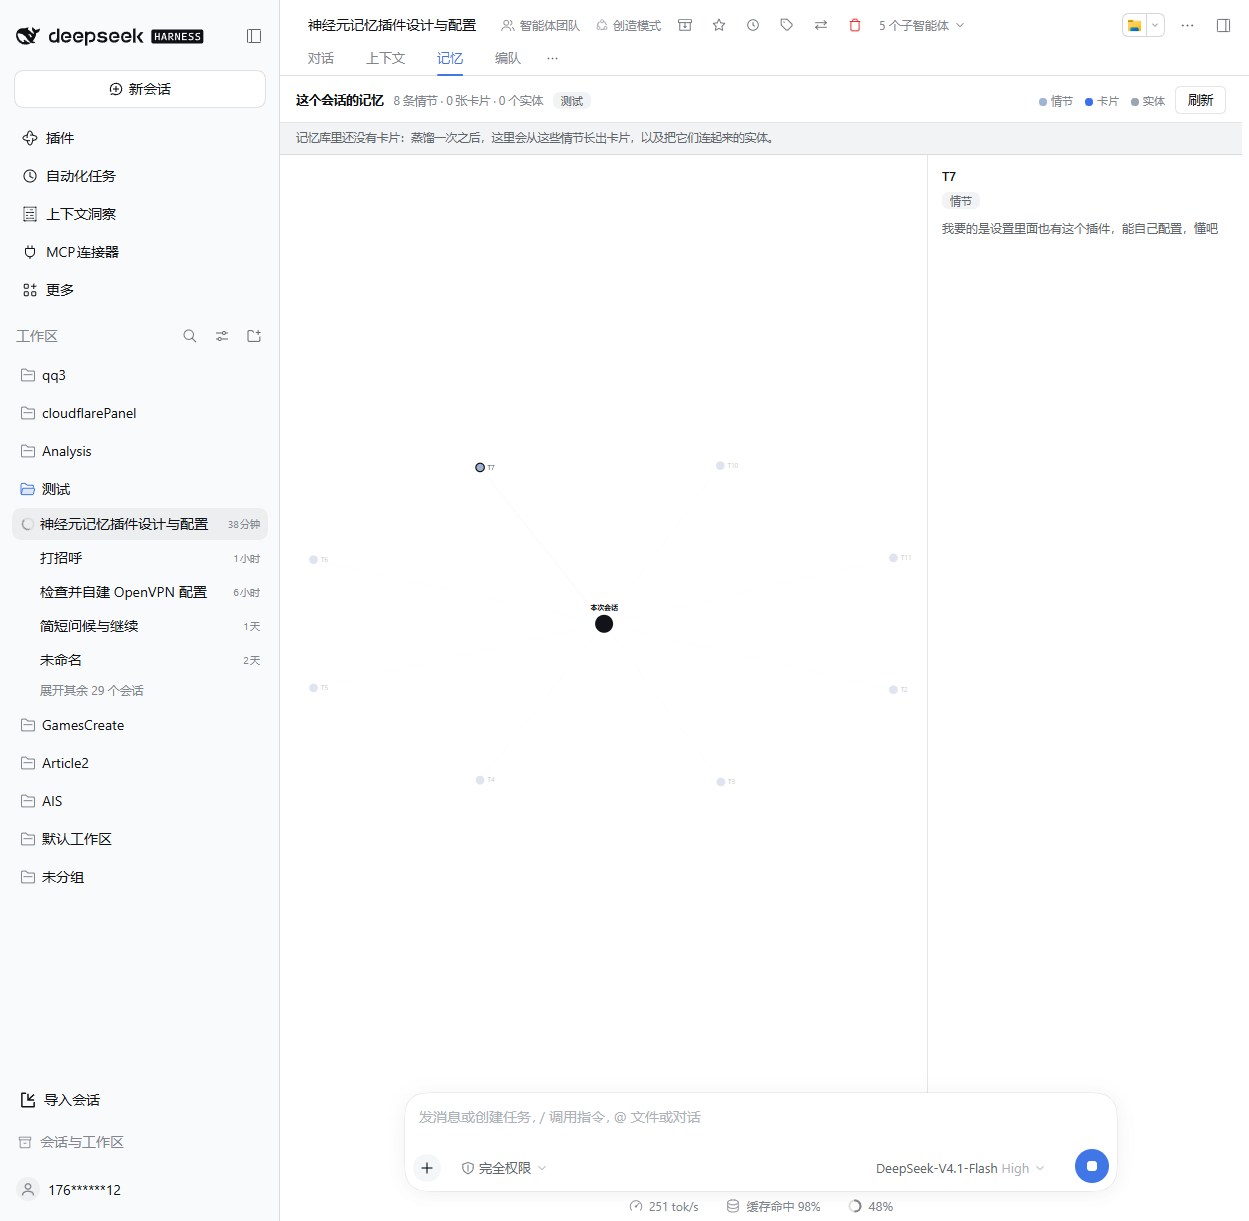
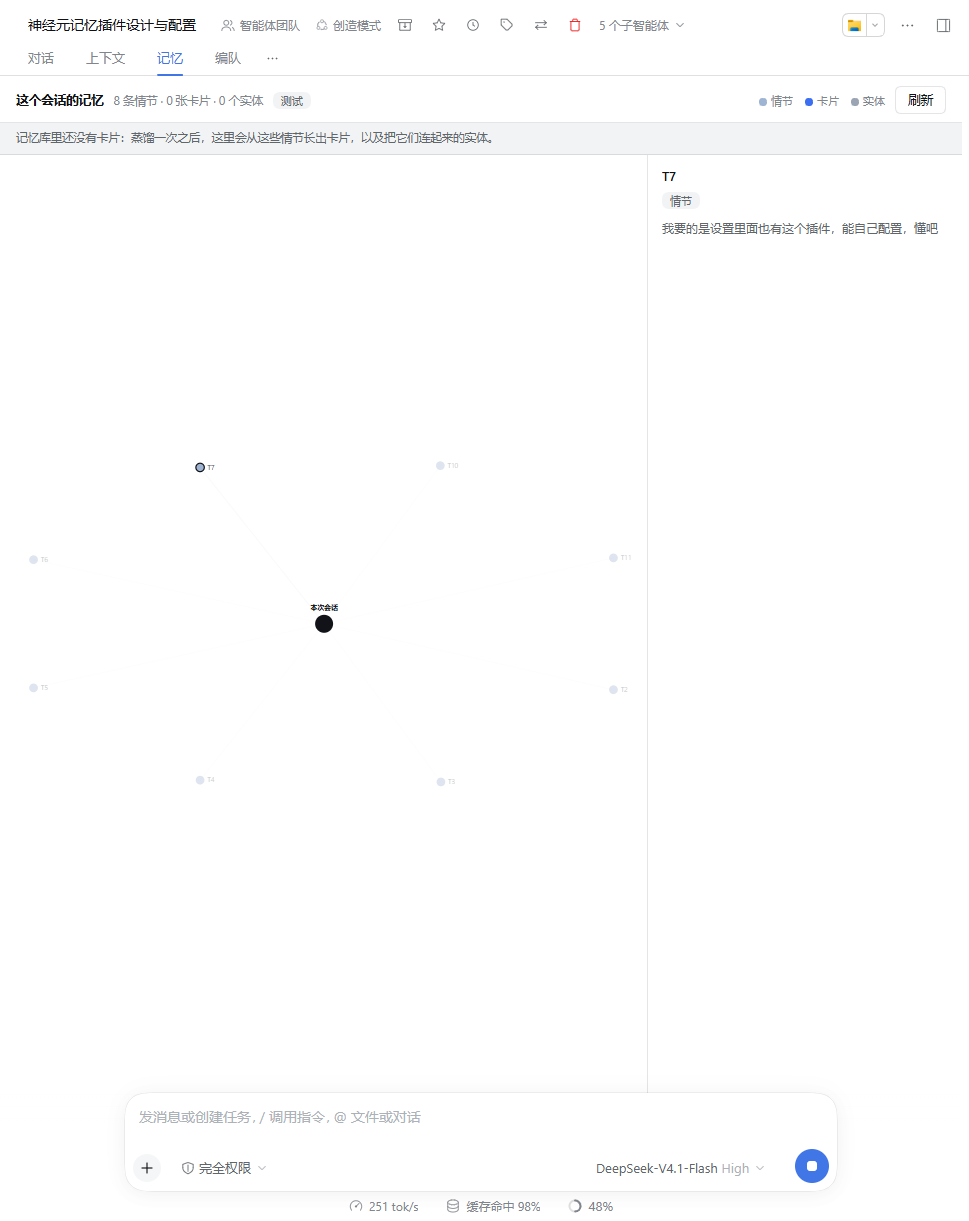
chore: 发布到 GitHub 前的整理
- 包名 @local/dsh-memory-graph → dsh-memory-graph。四处必须一致，一起改：
  package.json、client.js 的 PACKAGE_NAME（bundle 注册 id）、cordis.patch.yml、
  写进 vault.json 的 app 标记。
- package.json 补 repository / homepage / bugs / author。
- README 中英双语：安装改成 git clone → npm install → install_bundle，
  卸载目标名跟着改；docs/ 的截图裁掉左侧边栏（工作区名、会话标题、账号）。
- .github/workflows/test.yml：windows-latest，Node 20 与 22，跑 npm test。
- projectOf 不再用 path.basename：它只认当前平台的斜杠，而会话头里的 cwd 可能
  是另一个系统写下的；两个斜杠都切。

diff --git a/src/capture.js b/src/capture.js
@@ -5,7 +5,6 @@
  * loses anything" guarantee holds even while the extractor is unconfigured,
  * offline, or out of quota. Distillation happens later and separately.
  */
-import path from 'node:path'
 import { nowIso } from './vault.js'
 
 const FLUSH_AFTER_MS = 90_000
@@ -40,7 +39,10 @@ function eventText(event) {
 function projectOf(session, fallback) {
   const cwd = session?.header?.cwd ?? session?.meta?.cwd ?? session?.cwd
   if (typeof cwd === 'string' && cwd.trim() !== '') {
-    const base = path.basename(cwd.replace(/[\\/]+$/, ''))
+    // Both separators, whatever platform this is running on: the path comes from
+    // the session header, which may well have been written on the other OS.
+    const parts = cwd.replace(/[\\/]+$/, '').split(/[\\/]/)
+    const base = parts[parts.length - 1] ?? ''
     if (base !== '') return base
   }
   return fallback

diff --git a/src/vault.js b/src/vault.js
@@ -248,7 +248,7 @@ export function createVault(cfg, redactor) {
       if (!(await exists(P.vaultJson))) {
         await writeAtomic(
           P.vaultJson,
-          `${JSON.stringify({ schema: 'dsh-memory-graph/1', created: nowIso(), app: '@local/dsh-memory-graph' }, null, 2)}\n`,
+          `${JSON.stringify({ schema: 'dsh-memory-graph/1', created: nowIso(), app: 'dsh-memory-graph' }, null, 2)}\n`,
         )
       }
       if (!(await exists(P.projects))) {

diff --git a/client.js b/client.js
@@ -21,7 +21,7 @@
  * so `test/schema.mjs` can hold the page and the schema to each other.
  */
 
-const PACKAGE_NAME = '@local/dsh-memory-graph'
+const PACKAGE_NAME = 'dsh-memory-graph'
 const HOST_ENTRY_ID = 'memory-graph'
 const STYLE_ID = 'dsh-memory-graph-settings-css'
 /** The Conversation view cell this plugin adds, and the host routes it reads. */

diff --git a/README.md b/README.md
@@ -58,17 +58,25 @@ SQLite 需要处理锁和二进制合并，纯文本可以直接读、直接 gre
 
 ## 安装
 
-在 Harness 里让模型执行，或者自己在插件管理里填绝对路径：
+```
+git clone https://github.com/ilaomianyang/dsh-memory-graph
+cd dsh-memory-graph
+npm install                 # 只有一个依赖，Harness 自带的 schema 库
+```
+
+然后在 Harness 里让模型执行，或者自己在插件管理里填那个目录的绝对路径：
 
 ```
-plugin_manager action=install_bundle target="<本仓库绝对路径>"
+plugin_manager action=install_bundle target="<clone 下来的绝对路径>"
 ```
 
-`install_bundle` 用 `link:` 方式装本地目录，**不会**替你装依赖，所以先在这个仓库里跑一次 `npm install`（只有一个包）。不装也能用，只是设置里看不到那一页。
+`install_bundle` 用 `link:` 方式装本地目录，**不会**替你装依赖，所以上面那步 `npm install` 别跳过。不装也能用，只是设置里看不到那一页。
+
+想跟着改：`git pull` 之后重载插件即可（`plugin_manager action=set_plugin target="include:memory-graph" enabled=false`，再 `enabled=true`）。
 
 **装完要重启一次 Harness**（关掉窗口重开）。原因不是偷懒：Web 侧的插件清单是启动时扫一遍运行中的 loader 条目、读各自 `package.json` 的 `dsh.client` 字段定下的，这份扫描结果在进程里有缓存，之后不会再读第二遍。所以新装、或者改了 `client.js` / `package.json`，都得让进程重来一次；装完不重启，侧栏里不会有「记忆图谱」，而你手上不会有任何报错提示。
 
-重启后打开 **设置 → 记忆图谱**（在「模型」和「内置插件」之间）。卸载：`plugin_manager action=remove_bundle target="@local/dsh-memory-graph"`。**记忆库不会被删**，它在 `~/dsh-memory`，独立于插件。
+重启后打开 **设置 → 记忆图谱**（在「模型」和「内置插件」之间）。卸载：`plugin_manager action=remove_bundle target="dsh-memory-graph"`。**记忆库不会被删**，它在 `~/dsh-memory`，独立于插件。
 
 ## 你的记忆库长什么样
 

diff --git a/README.en.md b/README.en.md
@@ -61,10 +61,20 @@ backed up directly.
 ## Install
 
 ```
-plugin_manager action=install_bundle target="<absolute path to this repo>"
+git clone https://github.com/ilaomianyang/dsh-memory-graph
+cd dsh-memory-graph
+npm install                 # one dependency: the harness's own schema library
 ```
 
-`install_bundle` links a local directory with `link:`, which does **not** install the package's dependencies, so run `npm install` once in this repo (it is a single package). Without it the plugin still runs — there is simply no Memory Graph page in Settings.
+Then, in Harness, let the model run this, or point the plugin manager at that directory:
+
+```
+plugin_manager action=install_bundle target="<absolute path of the clone>"
+```
+
+`install_bundle` links a local directory with `link:`, which does **not** install the package's dependencies, so do not skip `npm install` above. Without it the plugin still runs — there is simply no Memory Graph page in Settings.
+
+To follow along: `git pull`, then reload the plugin (`plugin_manager action=set_plugin target="include:memory-graph" enabled=false`, then `enabled=true`).
 
 The vault defaults to `~/dsh-memory` and is created on activation.
 
@@ -72,7 +82,7 @@ The vault defaults to `~/dsh-memory` and is created on activation.
 
 After the restart it is **Settings → Memory Graph**, between Models and Plugins.
 
-Uninstall with `plugin_manager action=remove_bundle target="@local/dsh-memory-graph"`. The vault is not touched — it lives in `~/dsh-memory`, independent of the plugin.
+Uninstall with `plugin_manager action=remove_bundle target="dsh-memory-graph"`. The vault is not touched — it lives in `~/dsh-memory`, independent of the plugin.
 
 ## What you get on disk
 

diff --git a/CHANGELOG.md b/CHANGELOG.md
@@ -25,6 +25,12 @@
 
 - 采集会把宿主的 runtime 快照当成你说的话记下来——实测库里就躺着一条 1501 字的图像工具说明，被 1500 字上限截断后当成一轮对话。原因是"这是不是人说的"只看 `source.kind`，而这条快照带的正是 `user`。现在来源只能**增加**跳过，不能否决文本规则，两条都过；判断之前先剥掉 `<system-reminder>…</system-reminder>` 这种有边界的块，所以一条真消息里带了提醒时，剥完留下你的原话，而不是整条丢掉。
 - README 记下两个已知限制：采集不回溯（老会话没有情节，因为它只从插件在场那一刻开始），以及子智能体的开场提示词也会被当成一条情节（还没过滤）。
+**发布**
+
+- 包名从占位的 `@local/dsh-memory-graph` 改成 `dsh-memory-graph`（`package.json` / `client.js` 的 bundle id / `cordis.patch.yml` / 库里的 `vault.json` 标记四处一起改，它们必须一致）。补上 `repository` / `homepage` / `bugs` / `author`。
+- README 补上 `git clone` 安装路径；截图裁掉左侧边栏（工作区名、会话标题、账号）。
+- `.github/workflows/test.yml`：push / PR 时在 windows-latest 上跑 Node 20 与 22 的 `npm test`（221 项 + 离线评测，不联网、不碰记忆库）。
+- `projectOf` 不再用 `path.basename`：它只认当前平台的斜杠，而会话头里的 cwd 可能是另一个系统写下的。两个斜杠都切。
 **Note**
 
 - 默认仍然是**关**。这不是保守，是定价：一次蒸馏是一次真模型调用，什么时候花这笔钱应该是用户的决定，不是插件的。
